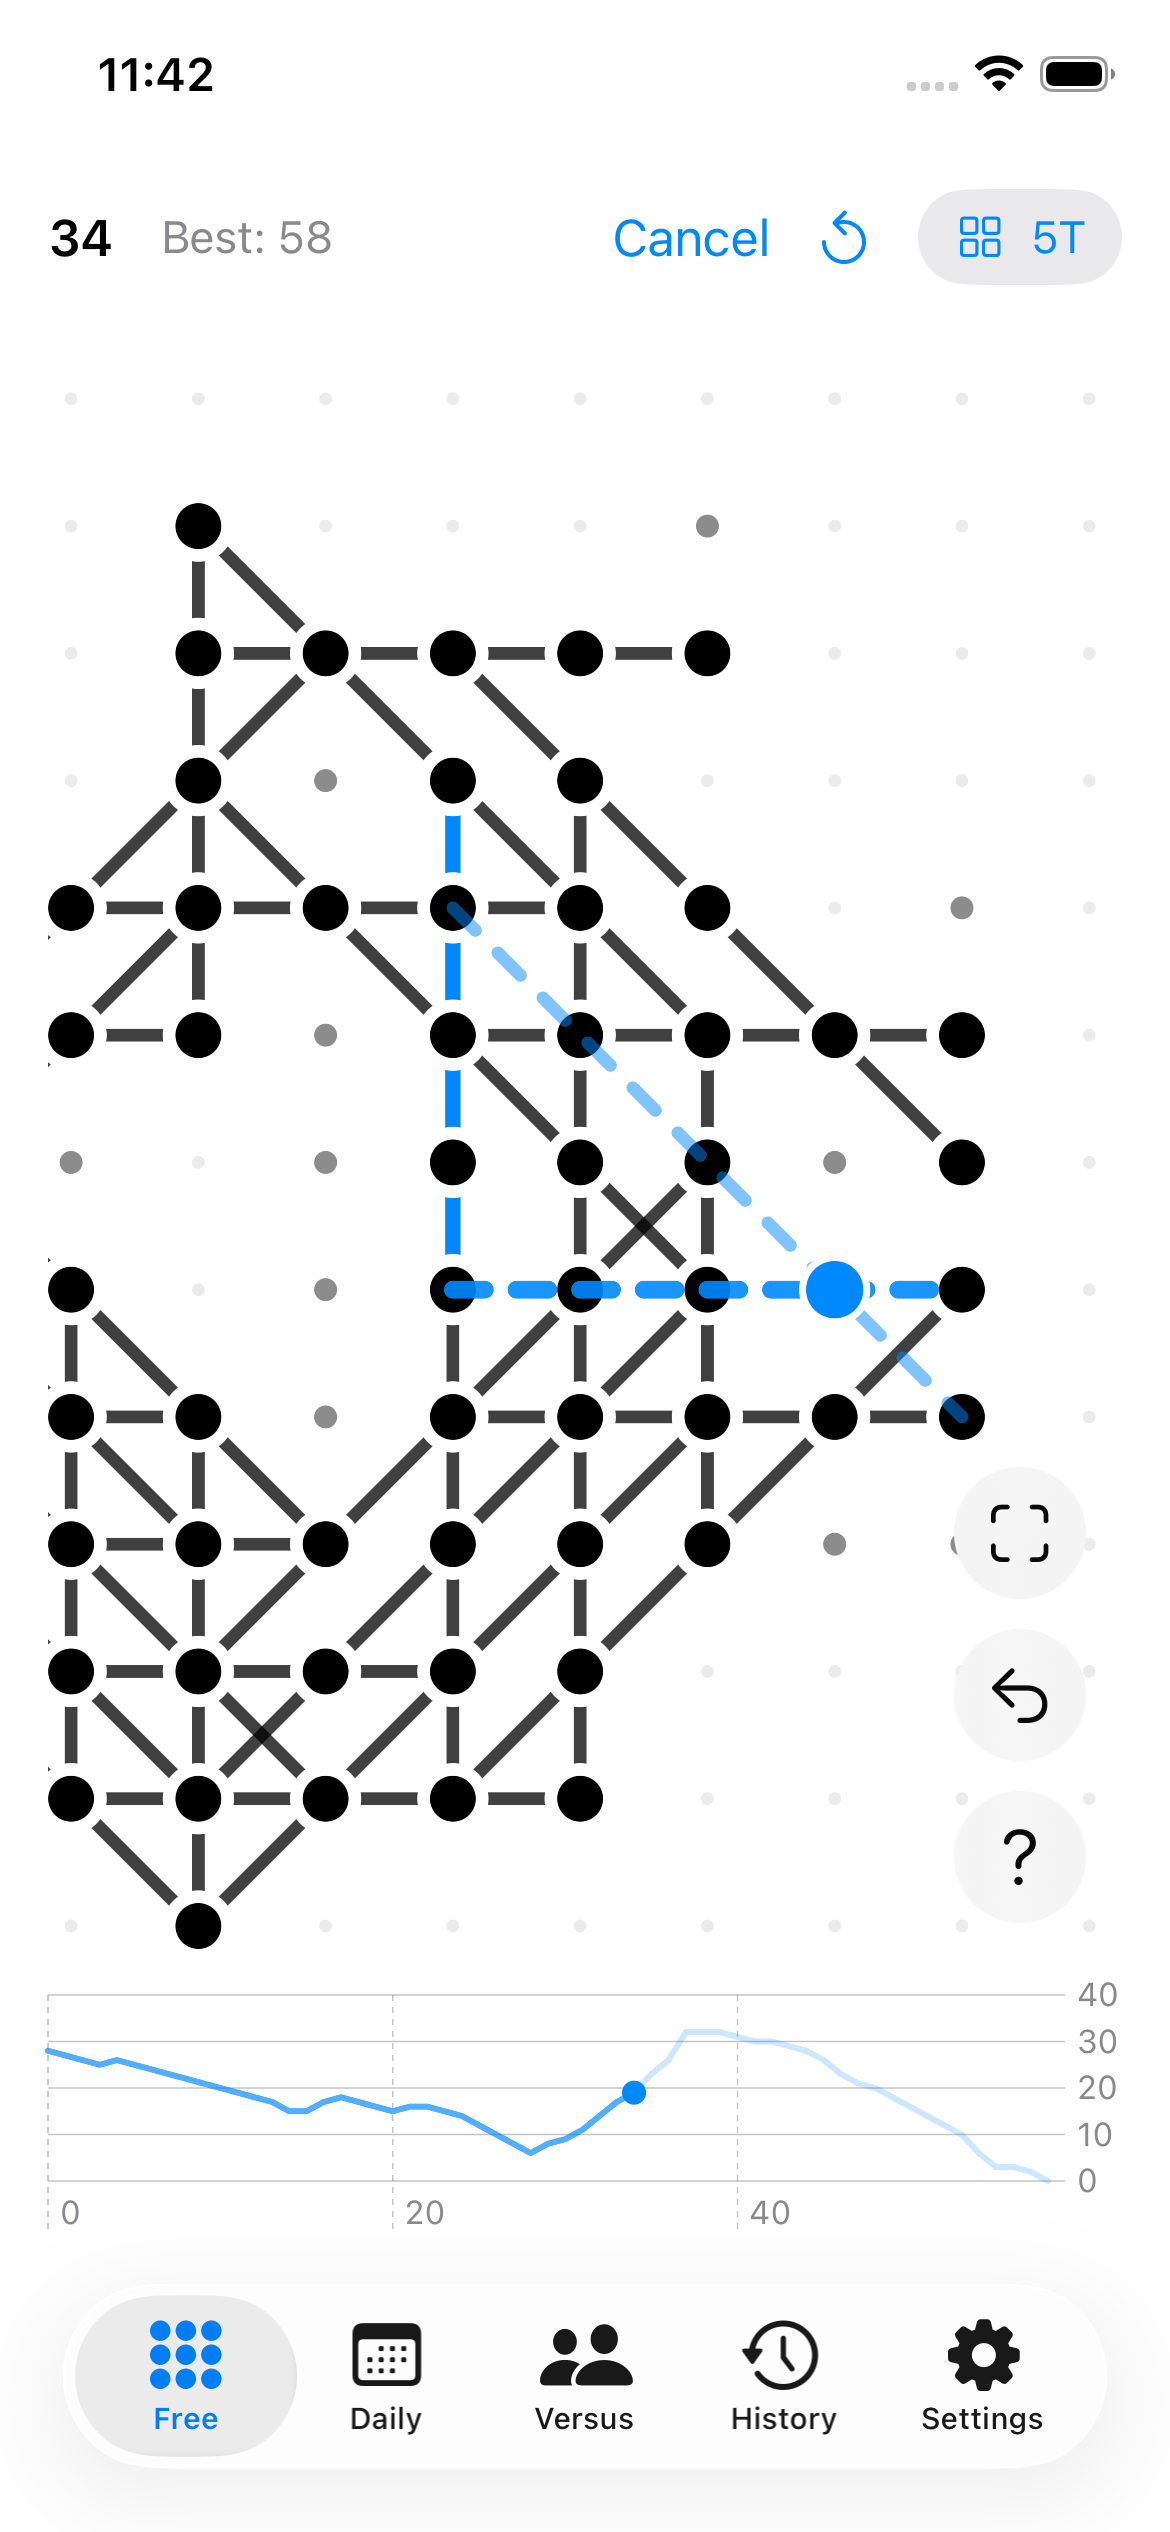
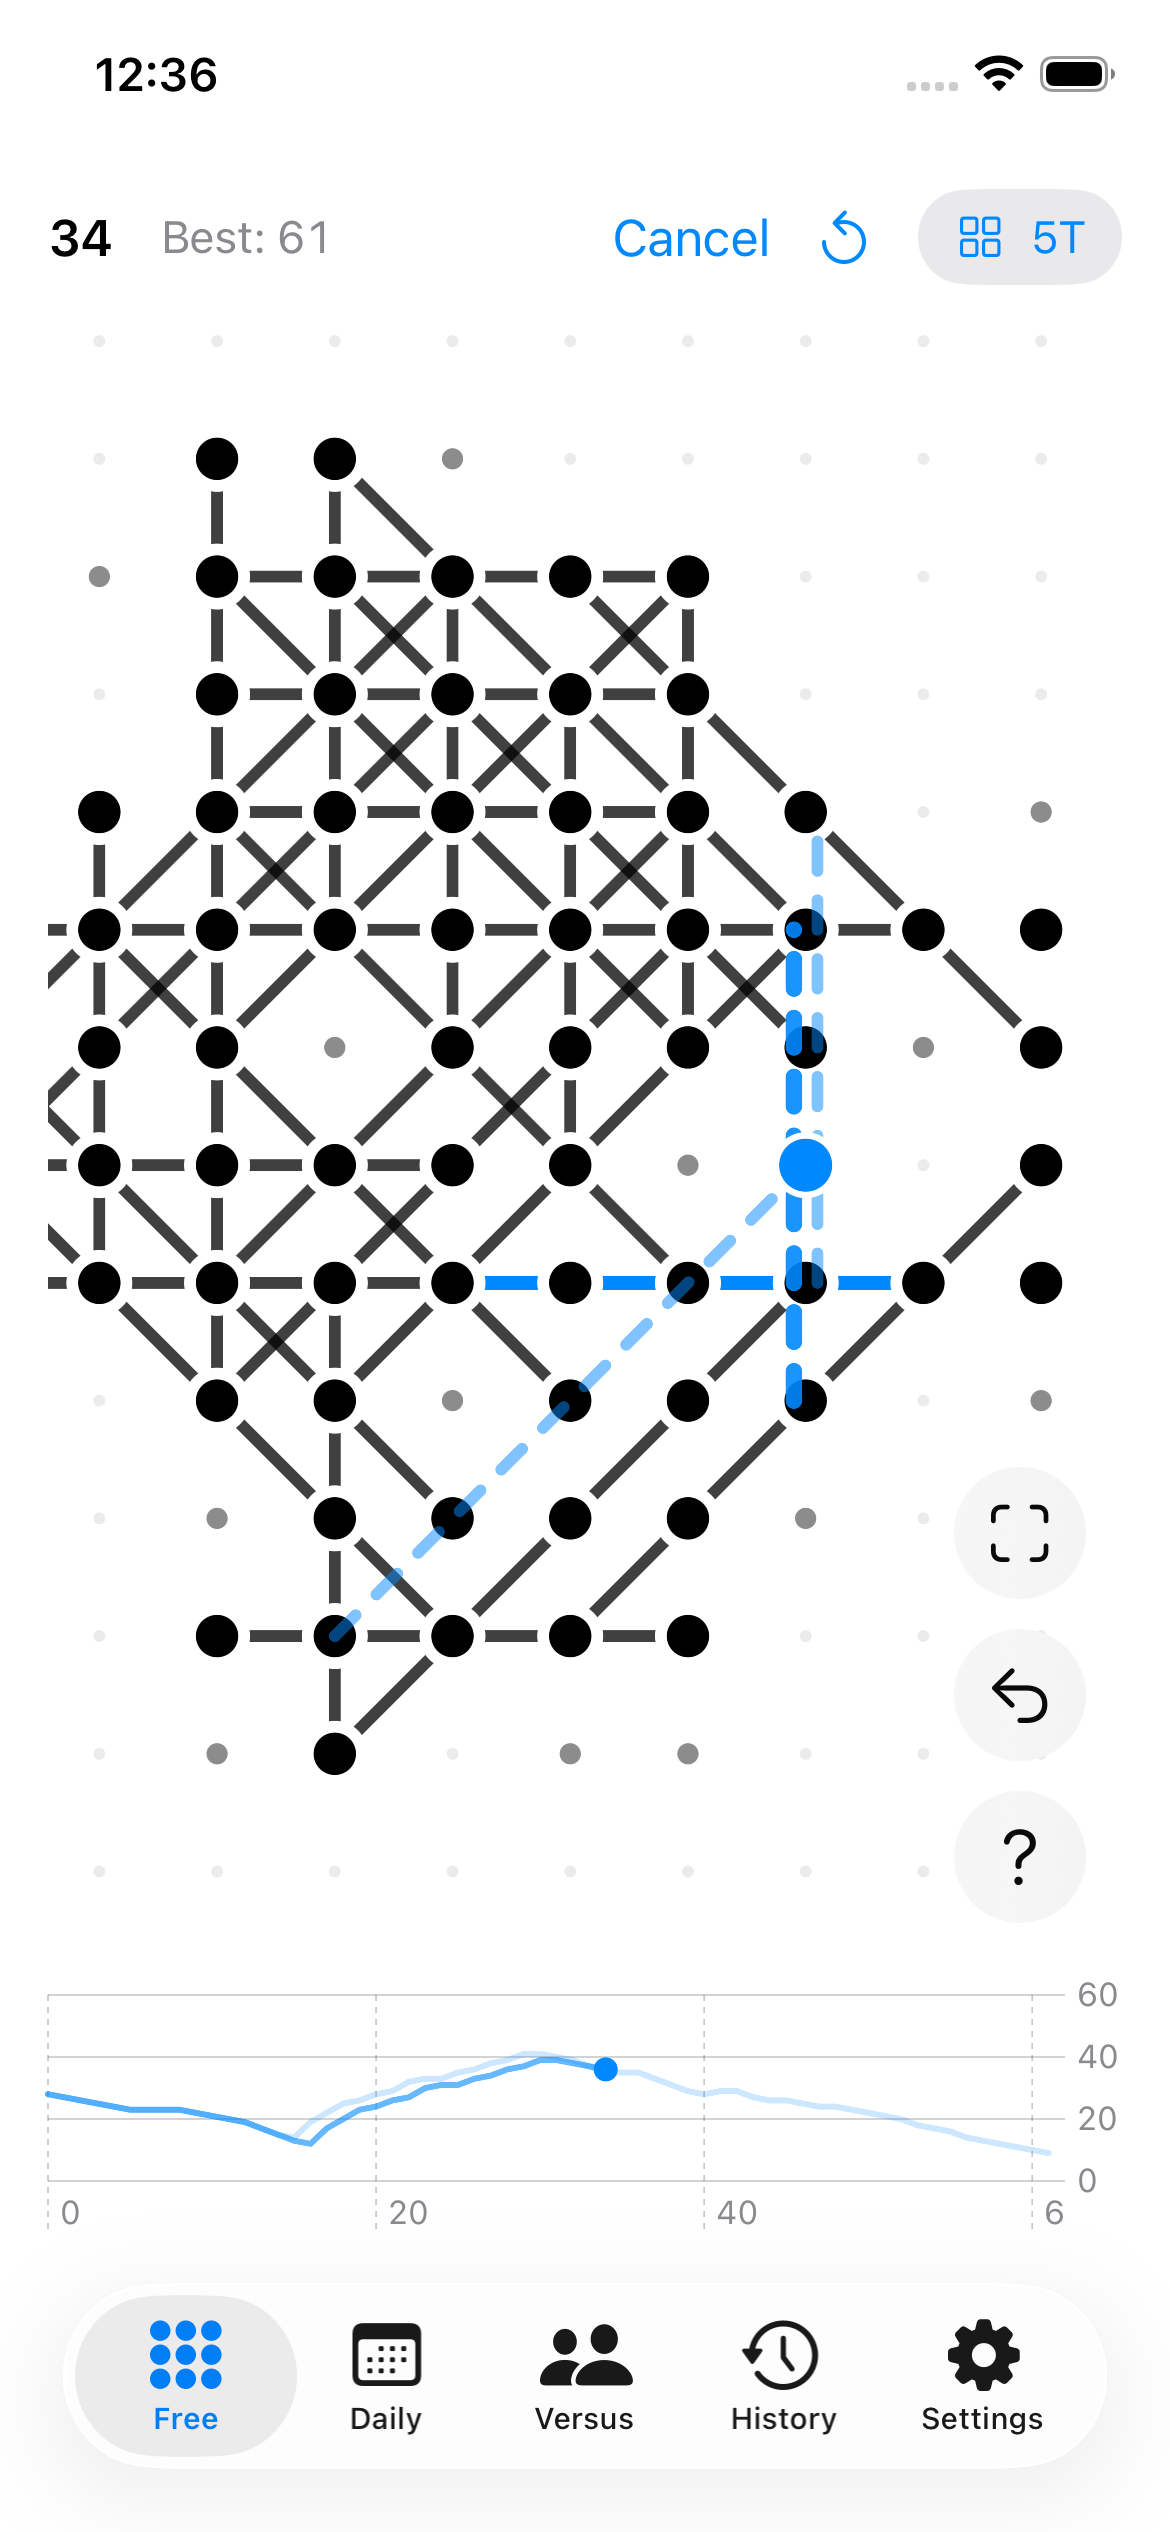
Add a Light/Dark setting
Capturing the store's dark screenshot meant leaving the app to change the
system appearance — on a Mac, a trip through System Settings. Settings ▸
Appearance now offers System/Light/Dark, and the dark shot is two taps on
every platform.

Sheets present in a fresh environment that does NOT inherit the presenter's
preferredColorScheme, so every sheet is pinned through appearanceSheet —
most visibly the macOS Settings sheet, which is where the picker lives. A
sheet is always handed a CONCRETE scheme: preferredColorScheme(nil) on a
live sheet goes inert without releasing the forced value, so .system would
stick on the last choice.

Also routes @AppStorage through DemoMode.defaults. Sound, haptics and now
appearance are read via @AppStorage, but the demo only handed its isolated
suite to Feedback and SyncController — so a demo run read and wrote the
real player's switches. DemoMode.defaults becomes a `let`: it wipes the
suite, and defaultAppStorage reads it from a view body that re-runs on
every update.

diff --git a/Packages/LatticeCore/Sources/LatticeKit/Settings/Appearance.swift b/Packages/LatticeCore/Sources/LatticeKit/Settings/Appearance.swift
@@ -1,0 +1,84 @@
+import SwiftUI
+
+/// User-chosen appearance. `.system` follows the device setting.
+///
+/// Worth having beyond taste: capturing the App Store's dark screenshot
+/// otherwise means leaving the app to change the system appearance, which on a
+/// Mac is a trip through System Settings.
+public enum AppearancePreference: String, CaseIterable, Identifiable, Sendable {
+    case system
+    case light
+    case dark
+
+    public static let defaultsKey = "lattice.appearance"
+
+    public var id: String { rawValue }
+
+    public var label: LocalizedStringKey {
+        switch self {
+        case .system: return "System"
+        case .light: return "Light"
+        case .dark: return "Dark"
+        }
+    }
+
+    /// The scheme to force on the SwiftUI hierarchy, or nil to follow the system.
+    public var colorScheme: ColorScheme? {
+        switch self {
+        case .system: return nil
+        case .light: return .light
+        case .dark: return .dark
+        }
+    }
+
+    /// The concrete scheme to render with. `.preferredColorScheme(nil)` on a
+    /// live sheet goes inert WITHOUT releasing the previously-forced value, so
+    /// sheets must always be handed a concrete scheme — `.system` resolves to
+    /// whatever the OS is currently showing.
+    public func resolvedScheme(systemFallback: ColorScheme) -> ColorScheme {
+        switch self {
+        case .light: return .light
+        case .dark: return .dark
+        case .system:
+            #if canImport(AppKit)
+            // macOS: the ambient colorScheme is unreliable beneath a sibling
+            // `.preferredColorScheme`, so ask AppKit what's actually on screen.
+            let match = NSApp?.effectiveAppearance.bestMatch(from: [.aqua, .darkAqua])
+            return match == .darkAqua ? .dark : .light
+            #else
+            return systemFallback
+            #endif
+        }
+    }
+}
+
+extension View {
+    /// A `.sheet` pinned to the app's chosen appearance.
+    ///
+    /// Sheets present in a FRESH environment that doesn't inherit the
+    /// presenter's `.preferredColorScheme`, so without this a sheet follows the
+    /// system and ignores a Light/Dark override — most visibly the macOS
+    /// Settings sheet, which is where the setting itself lives.
+    public func appearanceSheet<C: View>(
+        isPresented: Binding<Bool>, @ViewBuilder content: @escaping () -> C
+    ) -> some View {
+        modifier(AppearanceSheet(isPresented: isPresented, sheet: content))
+    }
+}
+
+/// The presenter's `@Environment(\.colorScheme)` already reflects whatever the
+/// app forces, so resolve the concrete scheme HERE and pin it on the content.
+private struct AppearanceSheet<C: View>: ViewModifier {
+    @AppStorage(AppearancePreference.defaultsKey) private var appearance = AppearancePreference
+        .system
+    @Environment(\.colorScheme) private var systemScheme
+    let isPresented: Binding<Bool>
+    @ViewBuilder let sheet: () -> C
+
+    func body(content: Content) -> some View {
+        content.sheet(isPresented: isPresented) {
+            sheet().preferredColorScheme(
+                appearance.resolvedScheme(systemFallback: systemScheme))
+        }
+    }
+}

diff --git a/Packages/LatticeCore/Sources/LatticeKit/Settings/SettingsView.swift b/Packages/LatticeCore/Sources/LatticeKit/Settings/SettingsView.swift
@@ -18,10 +18,12 @@ struct SettingsView: View {
     // Feedback's; the live players are updated on change.
     @AppStorage(Feedback.soundDefaultsKey) private var soundOn = false
     @AppStorage(Feedback.hapticsDefaultsKey) private var hapticsOn = true
+    @AppStorage(AppearancePreference.defaultsKey) private var appearance = AppearancePreference
+        .system
 
     // Keyboard row cursor: Up/Down move, Space toggles the focused row.
-    private enum Row: Int, CaseIterable { case sound, haptics, sync, reset }
-    @State private var cursor: Row = .sound
+    private enum Row: Int, CaseIterable { case appearance, sound, haptics, sync, reset }
+    @State private var cursor: Row = .appearance
     /// The row ring is a keyboard affordance — hidden until a key is used, so a
     /// pointer user never sees an unexplained outline. See NewGameModal.
     @State private var keyboardActive = false
@@ -44,8 +46,21 @@ struct SettingsView: View {
 
     var body: some View {
         Form {
-            // First — the quickest setting to reach; sound is a bit more
-            // prominent than the buried haptics toggle below it.
+            Section {
+                Picker(selection: $appearance) {
+                    ForEach(AppearancePreference.allCases) { option in
+                        Text(option.label, bundle: .module).tag(option)
+                    }
+                } label: {
+                    Text("Appearance", bundle: .module)
+                }
+                .pickerStyle(.segmented)
+                .rowCursor(keyboardActive && cursor == .appearance)
+            } header: {
+                Text("Appearance", bundle: .module)
+            }
+            // Sound is a bit more prominent than the buried haptics toggle
+            // below it.
             Section {
                 Toggle(isOn: $soundOn) {
                     Text("Sound effects", bundle: .module)
@@ -168,10 +183,10 @@ struct SettingsView: View {
         ) { _ in
             exportDocument = nil
         }
-        .sheet(isPresented: $showAbout) {
+        .appearanceSheet(isPresented: $showAbout) {
             AboutSheet(dismiss: { showAbout = false })
         }
-        .sheet(isPresented: $showHowTo) {
+        .appearanceSheet(isPresented: $showHowTo) {
             HowToPlaySheet(dismiss: { showHowTo = false })
         }
         #if os(macOS)
@@ -203,6 +218,11 @@ struct SettingsView: View {
 
     private func activate() {
         switch cursor {
+        // Not a toggle — Space steps to the next option and wraps.
+        case .appearance:
+            let all = AppearancePreference.allCases
+            let next = (all.firstIndex(of: appearance).map { $0 + 1 } ?? 0) % all.count
+            appearance = all[next]
         case .sound: soundOn.toggle()
         case .haptics: hapticsOn.toggle()
         case .sync: if sync.isAvailable { sync.isOn.toggle() }

diff --git a/Packages/LatticeCore/Sources/LatticeKit/App/RootView.swift b/Packages/LatticeCore/Sources/LatticeKit/App/RootView.swift
@@ -11,6 +11,8 @@ public struct RootView: View {
     /// "?" reveals keyboard shortcuts app-wide (the board cheatsheet + the
     /// floating-control badges in GameView).
     @State private var showShortcuts = false
+    @AppStorage(AppearancePreference.defaultsKey) private var appearance = AppearancePreference
+        .system
 
     public init(model: AppModel) {
         self.model = model
@@ -58,6 +60,14 @@ public struct RootView: View {
         #if os(macOS)
         .background(ShortcutToggle(showShortcuts: $showShortcuts))
         #endif
+        // Point every @AppStorage at the demo-aware suite. Sound, haptics and
+        // appearance are read through @AppStorage but the demo hands its
+        // isolated defaults to Feedback and SyncController, so without this a
+        // demo run would read and write the REAL player's switches.
+        .defaultAppStorage(DemoMode.defaults)
+        // The app-wide appearance override. Sheets don't inherit it (see
+        // appearanceSheet), so each is pinned separately.
+        .preferredColorScheme(appearance.colorScheme)
         // Board feedback (sound + haptics) available to the board views.
         .environmentObject(model.feedback)
         // Arriving at History (a tab tap, ⌘4, or the View menu — any route that
@@ -69,17 +79,17 @@ public struct RootView: View {
         // menu, via the app's command). A sheet can't be orphaned or outlive
         // the game, unlike a separate Settings window. iOS uses the tab above.
         #if os(macOS)
-        .sheet(isPresented: $model.isShowingSettings) {
+        .appearanceSheet(isPresented: $model.isShowingSettings) {
             SettingsScene(model: model, done: { model.isShowingSettings = false })
         }
         #endif
         // About: the macOS app menu opens it here; the Settings row on both
         // platforms presents its own copy from inside that sheet/tab.
-        .sheet(isPresented: $model.isShowingAbout) {
+        .appearanceSheet(isPresented: $model.isShowingAbout) {
             AboutSheet(dismiss: { model.isShowingAbout = false })
         }
         // Help: the macOS Help menu (⌘?) and the iOS Settings row both land here.
-        .sheet(isPresented: $model.isShowingHowTo) {
+        .appearanceSheet(isPresented: $model.isShowingHowTo) {
             HowToPlaySheet(dismiss: { model.isShowingHowTo = false })
         }
         // Universal Links: a challenge link starts its board in Free.

diff --git a/Packages/LatticeCore/Tests/LatticeCoreTests/AppearanceTests.swift b/Packages/LatticeCore/Tests/LatticeCoreTests/AppearanceTests.swift
@@ -1,0 +1,34 @@
+import SwiftUI
+import XCTest
+
+@testable import LatticeKit
+
+final class AppearanceTests: XCTestCase {
+    func testForcedSchemesMapDirectly() {
+        XCTAssertNil(AppearancePreference.system.colorScheme, "system must not force a scheme")
+        XCTAssertEqual(AppearancePreference.light.colorScheme, .light)
+        XCTAssertEqual(AppearancePreference.dark.colorScheme, .dark)
+    }
+
+    /// Sheets must always be handed a CONCRETE scheme: `.preferredColorScheme(nil)`
+    /// on a live sheet goes inert without releasing the previously-forced value,
+    /// so `.system` would stick on whatever was chosen last.
+    func testSystemResolvesToAConcreteScheme() {
+        XCTAssertEqual(
+            AppearancePreference.light.resolvedScheme(systemFallback: .dark), .light,
+            "an explicit choice ignores the fallback")
+        XCTAssertEqual(
+            AppearancePreference.dark.resolvedScheme(systemFallback: .light), .dark)
+        // .system resolves to the live OS appearance — whatever it is, it must be
+        // one of the two, never nil.
+        let resolved = AppearancePreference.system.resolvedScheme(systemFallback: .light)
+        XCTAssertTrue([.light, .dark].contains(resolved))
+    }
+
+    func testRoundTripsThroughDefaultsAsAString() {
+        for option in AppearancePreference.allCases {
+            XCTAssertEqual(AppearancePreference(rawValue: option.rawValue), option)
+        }
+        XCTAssertNil(AppearancePreference(rawValue: "sepia"), "unknown values fall back")
+    }
+}

diff --git a/Packages/LatticeCore/Sources/LatticeKit/Support/DemoMode.swift b/Packages/LatticeCore/Sources/LatticeKit/Support/DemoMode.swift
@@ -31,10 +31,14 @@ public enum DemoMode {
 
     /// Defaults suite for settings, isolated the same way — otherwise a demo run
     /// would flip the real player's sound/haptics/sync switches.
-    public static var defaults: UserDefaults {
+    ///
+    /// Resolved ONCE: the wipe has to happen at launch, not per access. This is
+    /// also read from a view body (`defaultAppStorage`), which re-runs on every
+    /// update — wiping there would erase a setting the moment it was changed.
+    public static let defaults: UserDefaults = {
         guard isClean else { return .standard }
         let suite = UserDefaults(suiteName: "fi.misaki.lattice.demo")!
         suite.removePersistentDomain(forName: "fi.misaki.lattice.demo")
         return suite
-    }
+    }()
 }

diff --git a/Packages/LatticeCore/Sources/LatticeKit/Game/GameView.swift b/Packages/LatticeCore/Sources/LatticeKit/Game/GameView.swift
@@ -149,11 +149,11 @@ public struct GameView: View {
         // Keep the menu's availability for the active tab in sync.
         .onChangeCompat(of: menuAvailability) { _ in publishAvailability() }
         .onAppear { publishAvailability() }
-        .sheet(isPresented: $isShowingNearby) {
+        .appearanceSheet(isPresented: $isShowingNearby) {
             NearbyDuelView(name: PlayerName.current(), bests: session.bests)
         }
         #if os(iOS)
-        .sheet(isPresented: $isScanning) {
+        .appearanceSheet(isPresented: $isScanning) {
             NavigationStack {
                 CodeScannerView { payload in
                     // The QR encodes the universal link; accept a bare

diff --git a/Scripts/asc/organize-shots.py b/Scripts/asc/organize-shots.py
@@ -50,8 +50,9 @@ SHOTS = [
      "Back to Free, then the header's variant button (⌘N on Mac). Shows the "
      "variant row with its explanation line and Random Start."),
     ("mid-game-dark", False,
-     "Last, because it needs a system-appearance change: close the modal, "
-     "switch to Dark, re-frame as in shot 1, capture, switch back to Light."),
+     "Settings ▸ Appearance ▸ Dark, back to Free, re-frame as in shot 1, "
+     "capture, then set Appearance back to System. Last because it's the one "
+     "shot that changes a setting."),
     ("nearby", True,
      "The duel board with live standings. Needs a second device — do it last, "
      "or skip for v1."),
@@ -99,8 +100,8 @@ def main():
             print(f"  {i}. {name}-{platform}.png")
             print(f"     {desc}")
         print("\nEverything is Light except the last shot (mid-game-dark), "
-              "which is\ndeliberately last so the appearance is switched once, "
-              "at the end.")
+              "which flips\nSettings \u25b8 Appearance \u2014 no trip through "
+              "the system settings needed.")
         print("\nThe Nearby duel needs a second device and is left out by "
               "default;\npass --with-nearby once you have two to hand.")
         print("\n`make shots PLATFORM=" + platform + "` captures straight to "

diff --git a/Scripts/asc/SCREENSHOTS.md b/Scripts/asc/SCREENSHOTS.md
@@ -91,7 +91,8 @@ make shots-list PLATFORM=iphone
 Seven shots (eight with Nearby). Capture order is chosen so **each is a couple
 of seconds from the last** — the demo stages the state, so every step is
 navigation, never "play a game to the end". The dark twin is last, so the
-system appearance is switched once, at the end.
+appearance is changed once, at the end — in **Settings ▸ Appearance**, not the
+system settings, so it's the same two taps on every platform.
 
 Two screens are deliberately left out. **Game over** only appears on a live
 finished board, so it would mean playing a game out, and the final score is

diff --git a/CHANGELOG.md b/CHANGELOG.md
@@ -17,6 +17,9 @@ The store release.
 
 ### Unreleased (next build)
 
+- **Light or Dark, set in the app** — Settings ▸ Appearance, or leave it on
+  System to follow the device as before.
+
 ### build 11 — 2026-08-16
 
 - The New Game screen now says what each variant is — "5T" means nothing on
